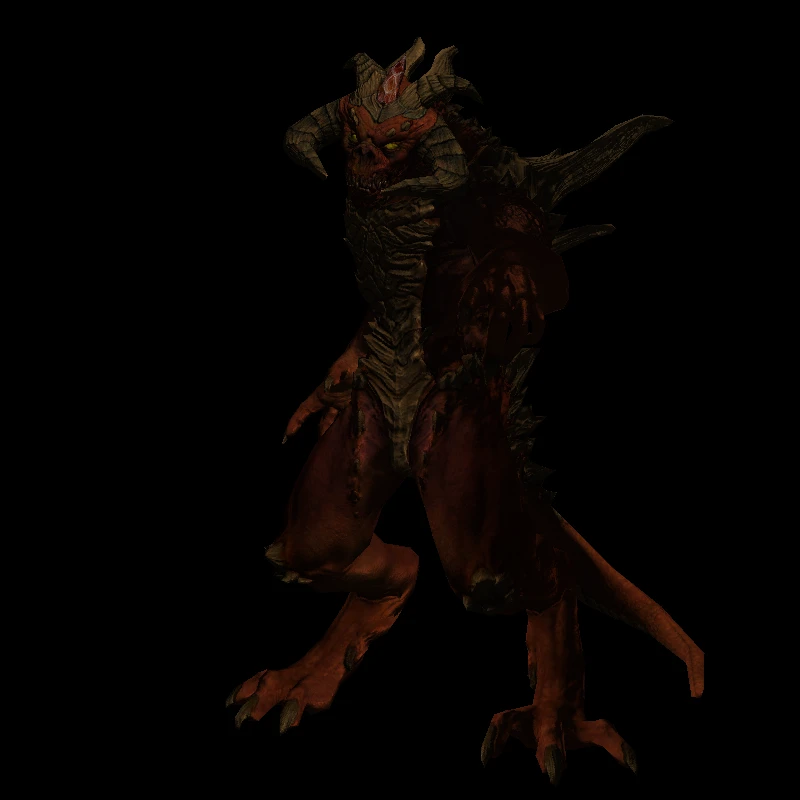
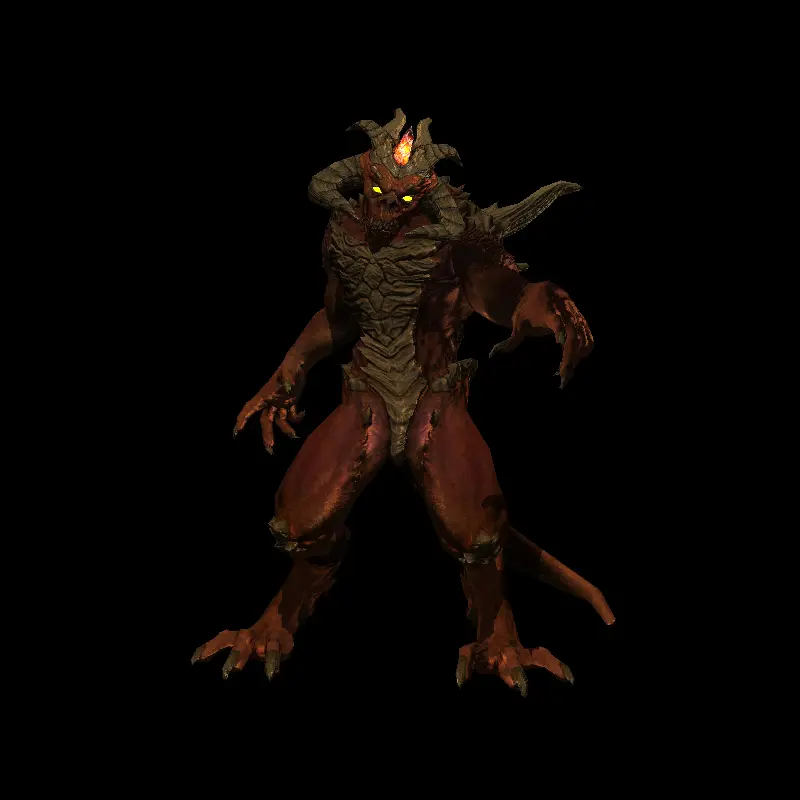
updated renderer

Changed region(s): [[0.2188, 0.0312, 0.9062, 0.9688]]

diff --git a/_posts/2023-12-25-renderer-from-scratch.md b/_posts/2023-12-25-renderer-from-scratch.md
@@ -9,7 +9,11 @@ preview: /assets/renderer/renderer-preview.webp
 Over the winter break, I made a software rasterizer with C++. The project helped me a lot with understanding the rendering pipeline and the math behind OpenGL. [Source code](https://github.com/PhuongPham7112/rasterizer-from-scratch).
 
 ### Rendered images
-With Gourald shader (diffuse, specular, ambient lighting) with shadow mapping, parsed and read from .obj files. 
+- Gourald shaders: diffuse + specular + ambient
+- Glow mapping
+- Shadow mapping
+- Gamma correction
+
 ![Picture 1](/assets/renderer/output-1.webp)
 ![Picture 2](/assets/renderer/output-2.webp)
 
